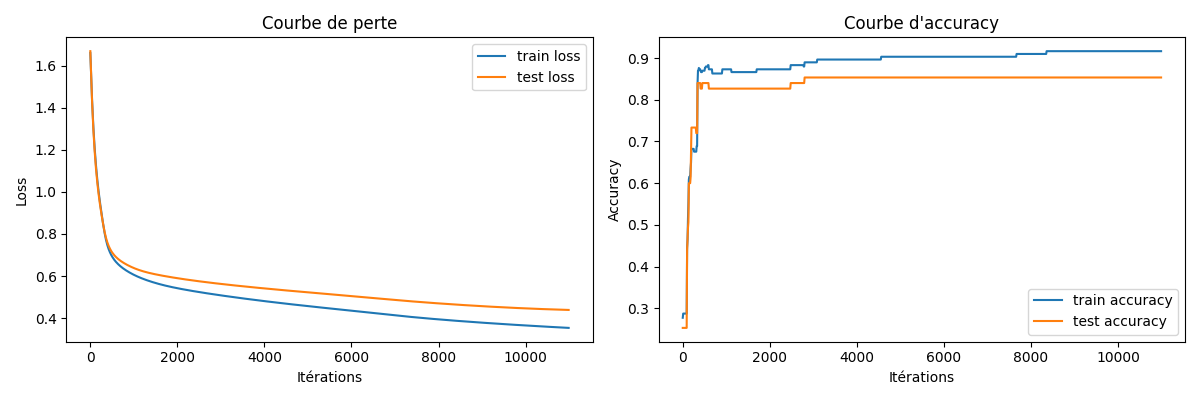
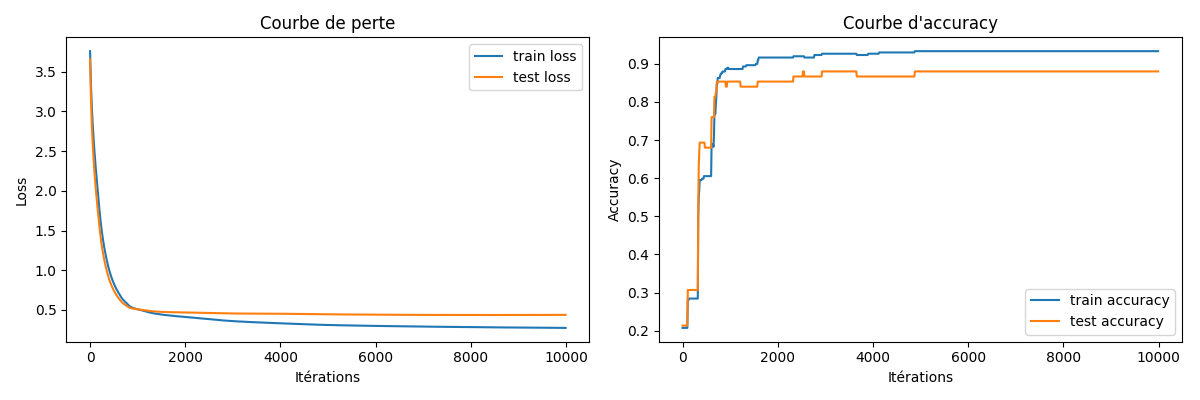
Début gradio APP

diff --git a/TIPE/Code/run.py b/TIPE/Code/run.py
@@ -10,6 +10,7 @@ from PyQt6.QtCore import Qt, pyqtSignal, QObject, QThread
 # Importation de mes modules
 import Core.training.AI_training as AT
 import UI.app as APP
+import UI.gradio_app as GRAPP
 
 class EmittingStream(QObject):
     """ Classe pour rediriger la sortie standard vers une QTextEdit. """
@@ -47,15 +48,18 @@ class MainMenu(QMainWindow):
         left_layout.addWidget(title_label)
         
         # Buttons
-        self.btn_app = QPushButton("Lancer l'Application UI")
+        self.btn_app = QPushButton("Lancer l'Application Desktop")
+        self.btn_gapp = QPushButton("Lancer l'Application gradio")
         self.btn_atq = QPushButton("Lancer le script de Training Qualité")
         self.btn_att = QPushButton("Lancer le script de Training Trouble")
 
         self.btn_app.clicked.connect(self.run_app_script)
+        self.btn_gapp.clicked.connect(self.run_app_gradio)
         self.btn_atq.clicked.connect(self.run_atq_script)
         self.btn_att.clicked.connect(self.run_att_script)
 
         left_layout.addWidget(self.btn_app)
+        left_layout.addWidget(self.btn_gapp)
         left_layout.addWidget(self.btn_atq)
         left_layout.addWidget(self.btn_att)
         left_layout.addSpacing(25)
@@ -65,12 +69,14 @@ class MainMenu(QMainWindow):
         param_form.setFieldGrowthPolicy(QFormLayout.FieldGrowthPolicy.AllNonFixedFieldsGrow)
         param_form.setFormAlignment(Qt.AlignmentFlag.AlignHCenter | Qt.AlignmentFlag.AlignTop)
         param_form.setLabelAlignment(Qt.AlignmentFlag.AlignLeft)
+
         
         # Checkboxes
         self.cb_c = QCheckBox()
         self.cb_t = QCheckBox()
         self.cb_keep_paths = QCheckBox()
         self.cb_verbose = QCheckBox()
+
 
         # Text fields
         self.default_paths = {
@@ -93,7 +99,8 @@ class MainMenu(QMainWindow):
         self.line_nb_iter.setSingleStep(1000)
         self.line_nb_iter.setValue(1000)
 
-        # Ajout les éléments au formulaire
+        # Ajout les éléments aux formulaires
+
         param_form.addRow("Création nouvelle IA:", self.cb_c)
         param_form.addRow("Mode Entraînement:", self.cb_t)
         param_form.addRow("Conserver les chemins:", self.cb_keep_paths)
@@ -242,9 +249,14 @@ class MainMenu(QMainWindow):
         self.line_path_n.clear()
         self.line_path_c.clear()
 
+    def run_app_gradio(self):
+        """ Lancer l'application UI Gradio """
+        print("\nLancement de l'application UI Gradio...\n")
+        GRAPP.run_gradio_app()
+
     def run_app_script(self):
         """ Lancer l'application UI """
-        print("\nLancement de l'application UI...\n")
+        print("Lancement de l'application Desktop...")
         app_window = APP.MainWindow()
         app_window.show()
         self.hide()

diff --git a/TIPE/Code/UI/gradio_app.py b/TIPE/Code/UI/gradio_app.py
@@ -1,0 +1,52 @@
+
+__init__ = "Gradio app module"
+
+import gradio as gr
+import sys
+import os
+import pandas as pd
+
+from Core.training.training_utils import model_charge
+from Core.preprocessing.preprocessing import preprocecing_user
+
+class GradioApp:
+    def __init__(self):
+        self.model_T = model_charge('TIPE/Code/Saves/save_sleep_trouble.pkl')
+        self.model_Q = model_charge('TIPE/Code/Saves/save_sleep_quality.pkl')
+
+    def predict(self, input_data):
+        # Convertir les données d'entrée en DataFrame
+        input_df = pd.DataFrame([input_data])
+        
+        # Prétraiter les données d'entrée
+        X_processed = preprocecing_user(input_df)
+        
+        # Faire la prédiction 
+        prediction_T = self.model_T.predict(X_processed)
+        prediction_Q = self.model_Q.predict(X_processed)
+        return "Qualité du Sommeil: {:.2f}".format(prediction_Q[0]) + "\nTrouble du Sommeil: {:.2f}%".format(prediction_T[0])
+
+
+    def launch(self):
+        with gr.Blocks() as demo:
+            gr.Markdown("# Prédiction des Troubles et Qualité du Sommeil")
+            input_data = {
+                "Gender": gr.Dropdown(choices=["Male", "Female"], label="Genre", value="Male"),
+                "Age": gr.Number(label="Âge", value=30),
+                "Occupation": gr.Dropdown(choices=["working", "unemployed", "student", "retired", "other"], label="Occupation", value="working"),
+                "Sleep Duration": gr.Number(label="Durée du Sommeil (heures)", value=7),
+                "Physical Activity Level": gr.Number(label="Activité Physique (minutes par jour)", value=30),
+                "Stress Level": gr.Number(label="Niveau de Stress", value="5"),
+                "BMI Category": gr.Dropdown(choices=["Normal", "Overweight", "Underweight", "Obese"], label="IMC", value="Normal"),
+                "Blood Pressure": gr.Text(label="Pression Artérielle (Ex: 120/80)", value="120/80"),
+                "Heart Rate": gr.Number(label="Fréquence Cardiaque (bpm)", value=70),
+                "Daily Steps": gr.Number(label="Pas Quotidiens", value=3000)
+            }
+            predict_button = gr.Button("Prédire")
+            output = gr.Textbox(label="Résultats de la Prédiction")
+            predict_button.click(fn=self.predict, inputs=input_data, outputs=output)
+        demo.launch()
+
+def run_gradio_app():
+    app = GradioApp()
+    app.launch()

diff --git a/TIPE/Code/Core/training/AI_training.py b/TIPE/Code/Core/training/AI_training.py
@@ -1,6 +1,6 @@
 
 import numpy as np
-from sklearn.preprocessing import QuantileTransformer
+from sklearn.preprocessing import QuantileTransformer # utile en cas de régression
 from PyQt6.QtCore import QObject, pyqtSignal
 import shap
 
@@ -71,7 +71,7 @@ class TrainingWorker(QObject):
         
         if self.bool_c:
             if self.model_type == "T":
-                self.model = model_init(self.path_n, X_train, y_train, X_test, y_test, [1024, 512, 256, 128, 64, 32, 16, 3], treshold_val=None)
+                self.model = model_init(self.path_n, X_train, y_train, X_test, y_test, [2048, 1024, 512, 256, 128, 64, 32, 16, 3], treshold_val=None)
             elif self.model_type == "Q":
                 self.model = model_init(self.path_n, X_train, y_train, X_test, y_test, [128,64,32,16,10], treshold_val=None)
         else: 

diff --git a/TIPE/Code/Core/models/AI_Model.py b/TIPE/Code/Core/models/AI_Model.py
@@ -5,13 +5,12 @@ import pickle
 import numpy as np
 from sklearn.metrics import accuracy_score, r2_score
 from PyQt6.QtCore import QObject, pyqtSignal
-from PyQt6.QtWidgets import QApplication
 
 from ..utils.utils import courbe_perf
 
 
 class Resaux(QObject):
-    ''' Classe de géneration et d'entrainement d'un réseau de neurones MLP (regression, binaire, multiclass) lié à une interface PyQt6'''
+    '''Classe de géneration et d'entrainement d'un réseau de neurones MLP (regression, binaire, multiclass) lié à une interface PyQt6'''
 
     progress_updated = pyqtSignal(int) # Signal pour mettre à jour la barre de progression dans l'interface PyQt6
     curve_save = pyqtSignal() # Signal de la sauvegarde des courbe
